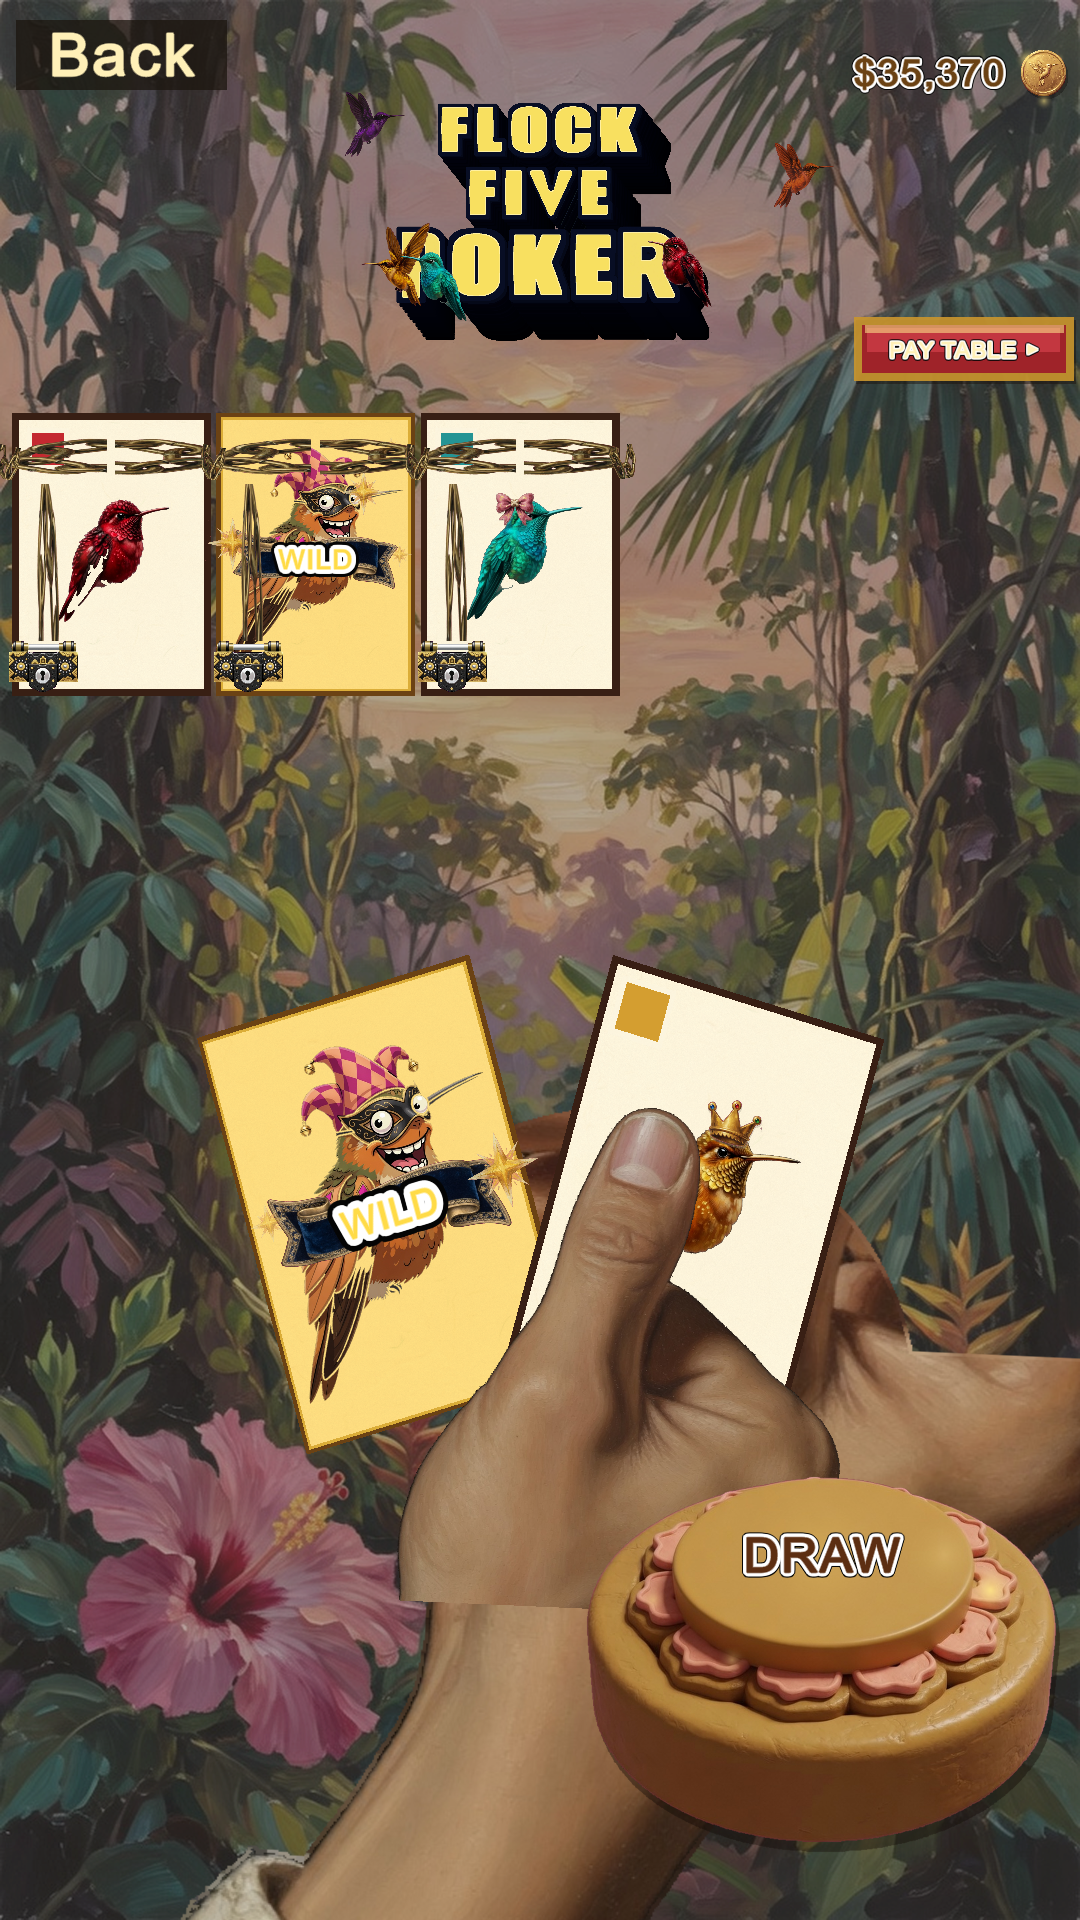
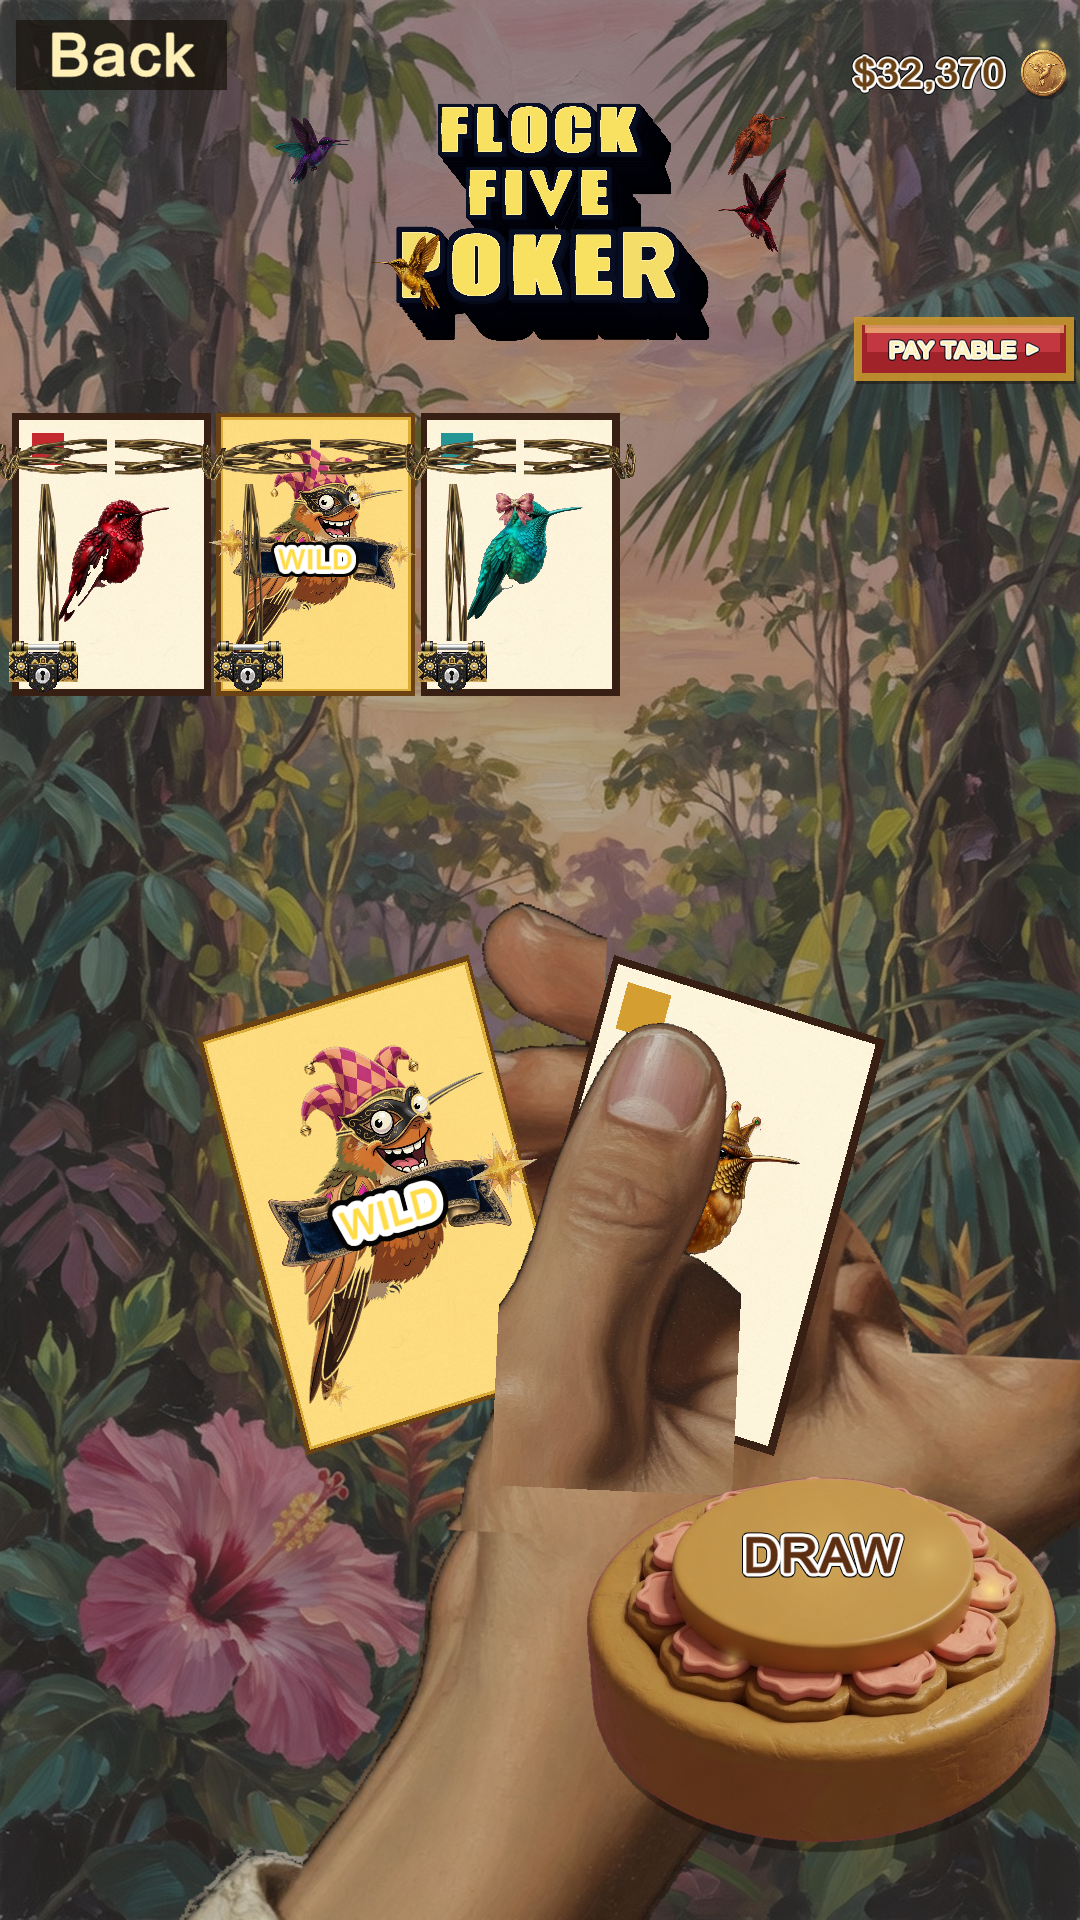
Poker: pass 14 — longer full thumb on the fan
Crop the thumb sprite to the digit (tip, nail, joint) and draw it
taller so the nail sits well up the cards. Behind digits keep the
palm dest (no width-squash) so the index path continues under the
fan instead of ending as a rim stump. Palm fill kept.

Playrun DONE 3/3, mid=0.

diff --git a/Assets/_Project/Scripts/App/FlockFiveApp.cs b/Assets/_Project/Scripts/App/FlockFiveApp.cs
@@ -1011,7 +1011,7 @@ namespace FlockFive
         {
             System.IO.Directory.CreateDirectory(dir);
             SpriteCatalog.DropPokerArt();
-            Debug.Log("Flock Five: ShotPokerFaces start " + dir + " pass13-full-thumb");
+            Debug.Log("Flock Five: ShotPokerFaces start " + dir + " pass14-longer-thumb");
             _home = HomeFace.Poker;
             _splash = true;
             _pokerPayOpen = false;
@@ -5446,14 +5446,11 @@ namespace FlockFive
             if (!front)
             {
                 DrawSprite(new Rect(x, y, w, h), SpriteCatalog.HandPalm, true);
-                // Full behind-finger paths at the palm dest so they continue
-                // under the fan (not cropped to a stump at the card rim).
-                // Re-anchor X to remaining fan when count drops; keep Y/H so
-                // the path still runs from palm up under the cards.
+                // Full finger paths at palm dest (no width-squash — that
+                // amputated them at the rim). Nudge X toward remaining fan.
                 var cover = PokerFanCover(gripN, row, bump);
-                float bx = cover.x - w * 0.08f;
-                float bw = cover.width + w * 0.16f;
-                var behind = new Rect(bx, y, bw, h);
+                float shift = cover.center.x - pinchX;
+                var behind = new Rect(x + shift * 0.22f, y, w, h);
                 DrawSprite(behind, SpriteCatalog.HandPinky, true);
                 DrawSprite(behind, SpriteCatalog.HandRing, true);
                 DrawSprite(behind, SpriteCatalog.HandMiddle, true);
@@ -5461,10 +5458,10 @@ namespace FlockFive
             }
             else
             {
-                // Full thumb digit on top of the cards: nail + joint + base.
-                float th = fanH * 1.28f;
-                float tw = th * 0.89f;
-                var thumb = new Rect(pinchX - tw * 0.48f, pinchY - th * 0.60f, tw, th);
+                // Longer full digit: nail well up the fan, joint mid-card, thenar at pinch.
+                float th = fanH * 1.18f;
+                float tw = th * 0.51f;
+                var thumb = new Rect(pinchX - tw * 0.50f, pinchY - th * 0.82f, tw, th);
                 DrawSprite(thumb, SpriteCatalog.HandThumb, true);
             }
             GUI.matrix = prev;
